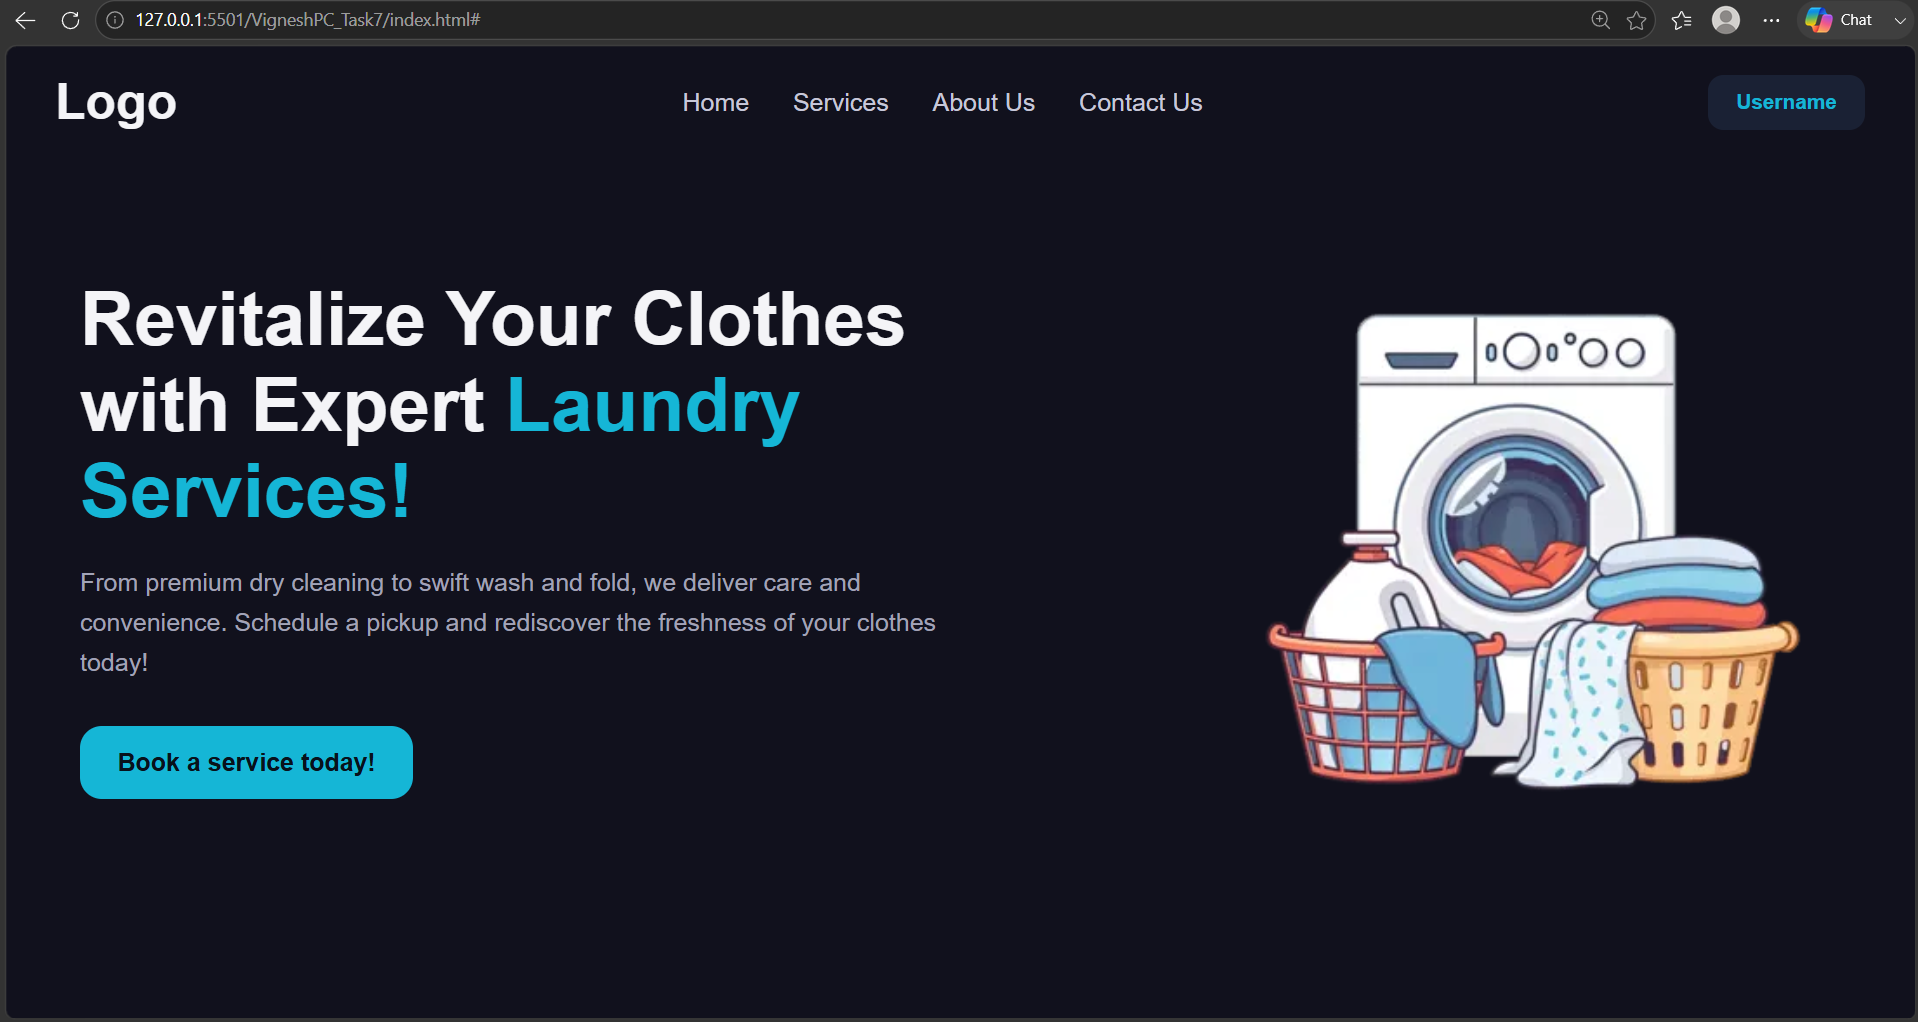
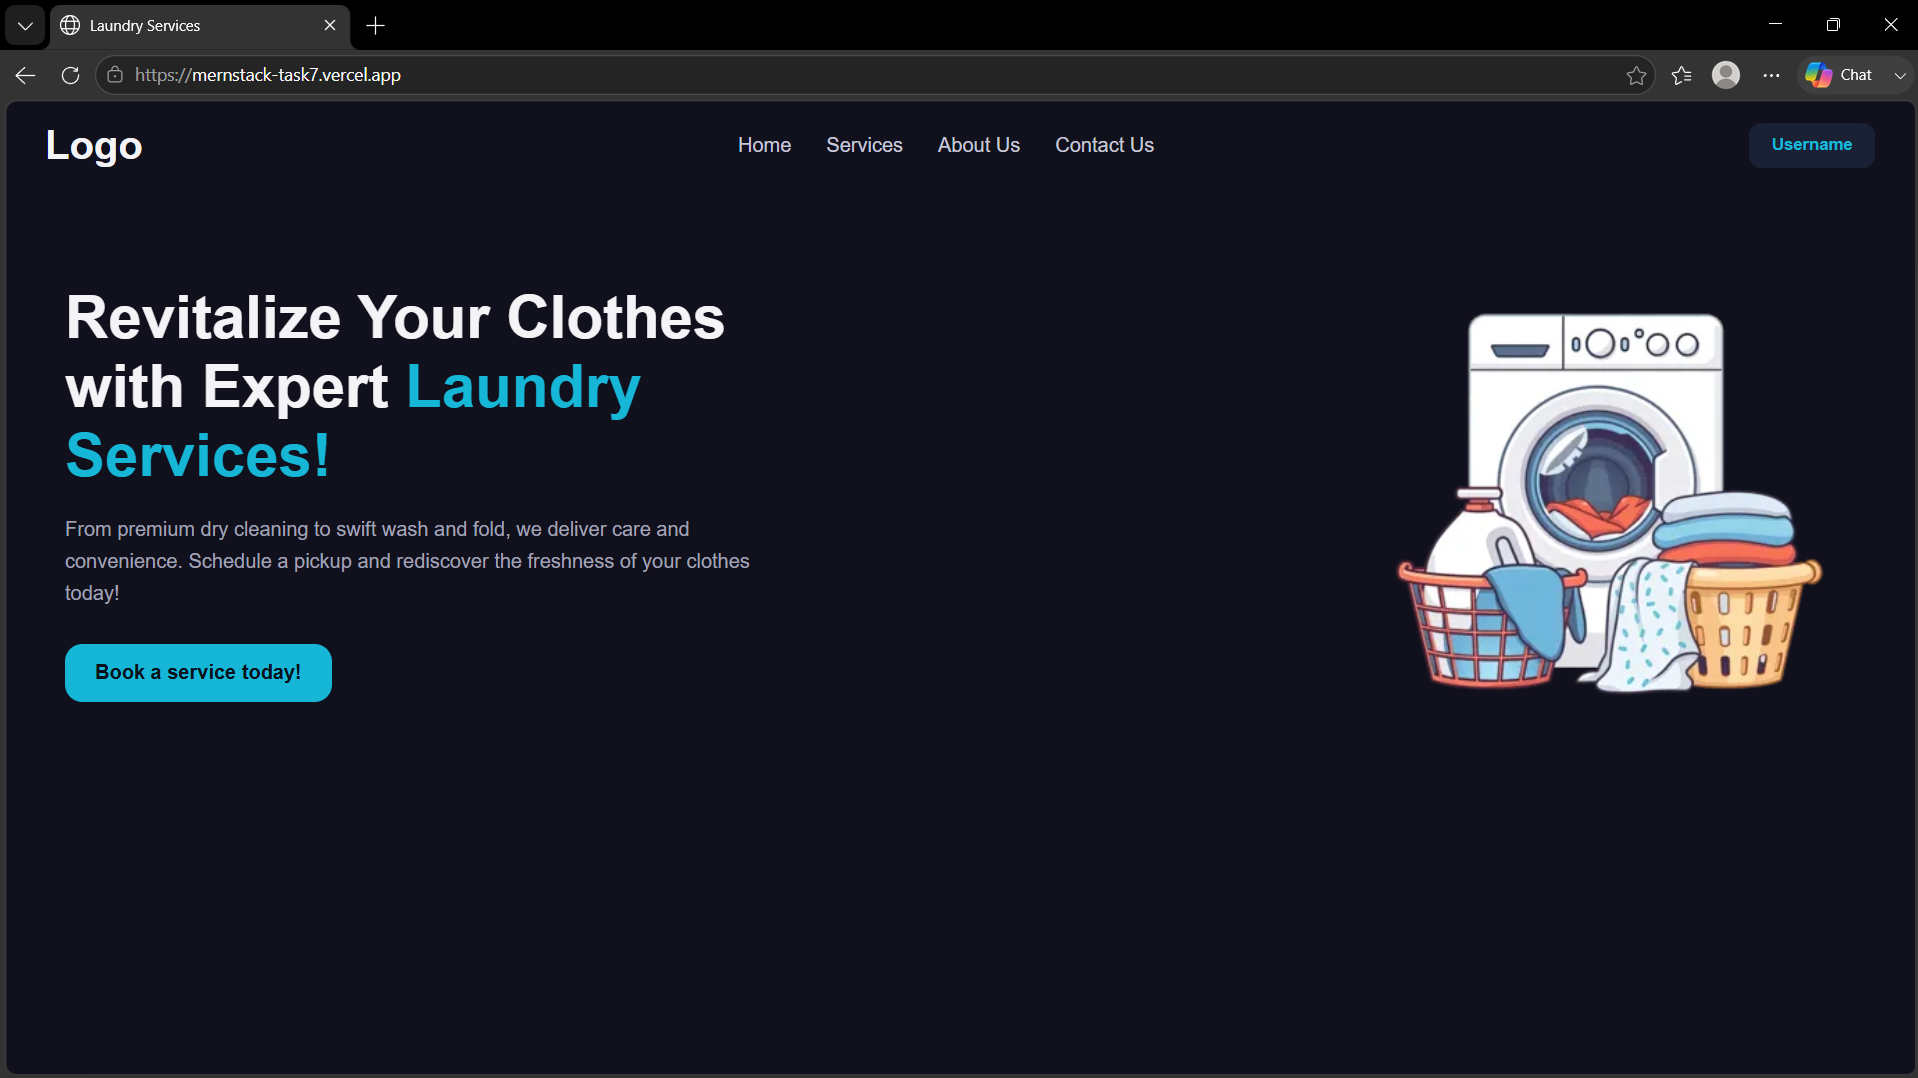
added task 8, and made changes in task 7 with respect to live demo and preview image

diff --git a/VigneshPC_Task7/readme.md b/VigneshPC_Task7/readme.md
@@ -4,7 +4,7 @@
 >
 > I understand the concern regarding the presentation of this readme file, coming forth as generated using AI, but that is not the case. I have worked on projects before, and I keep a consistent documentation style on GitHub because I am also recording my MERN stack learning journey. For this revision, I have kept the README clear and simple, and I have added comments in the HTML and CSS files to explain the media query choices used in this assignment.
 
-🌐 **Live Demo:** https://mernstack-v1ld.vercel.app/
+🌐 **Live Demo:** https://mernstack-task7.vercel.app/
 
 ## Stack
 